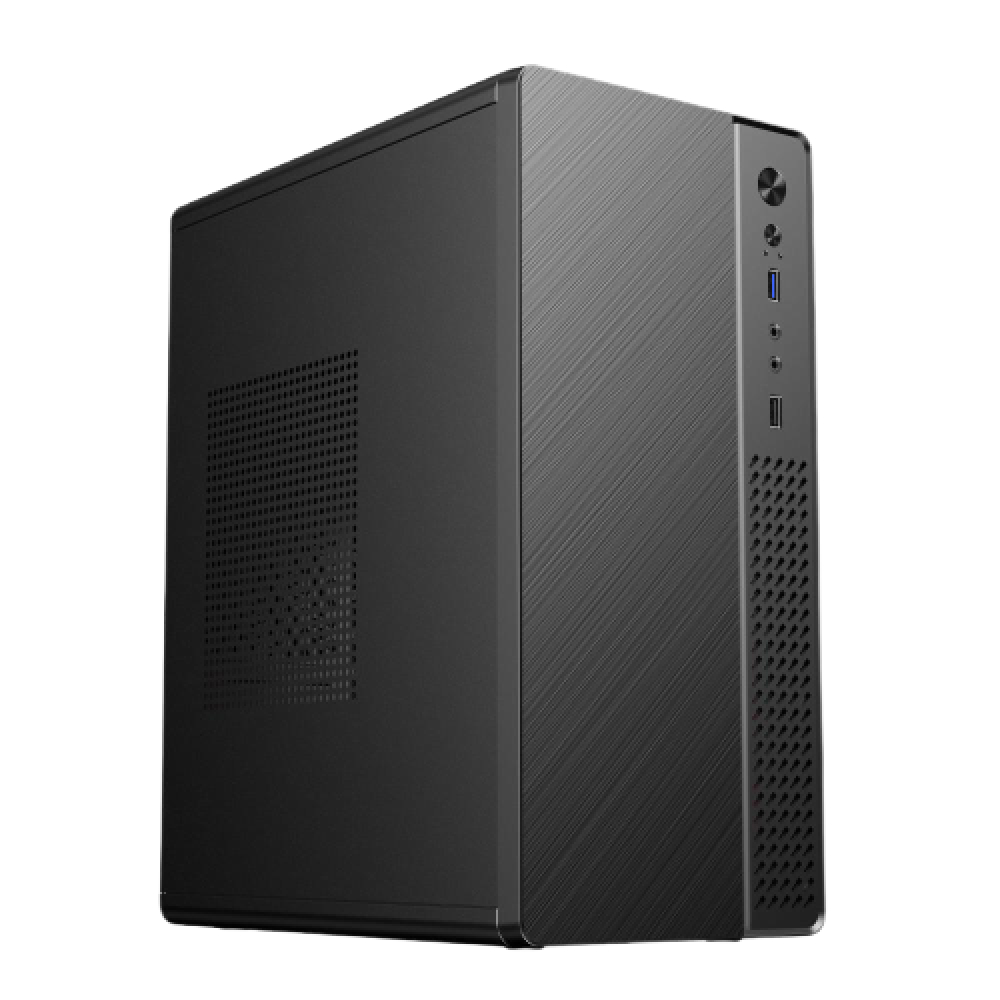
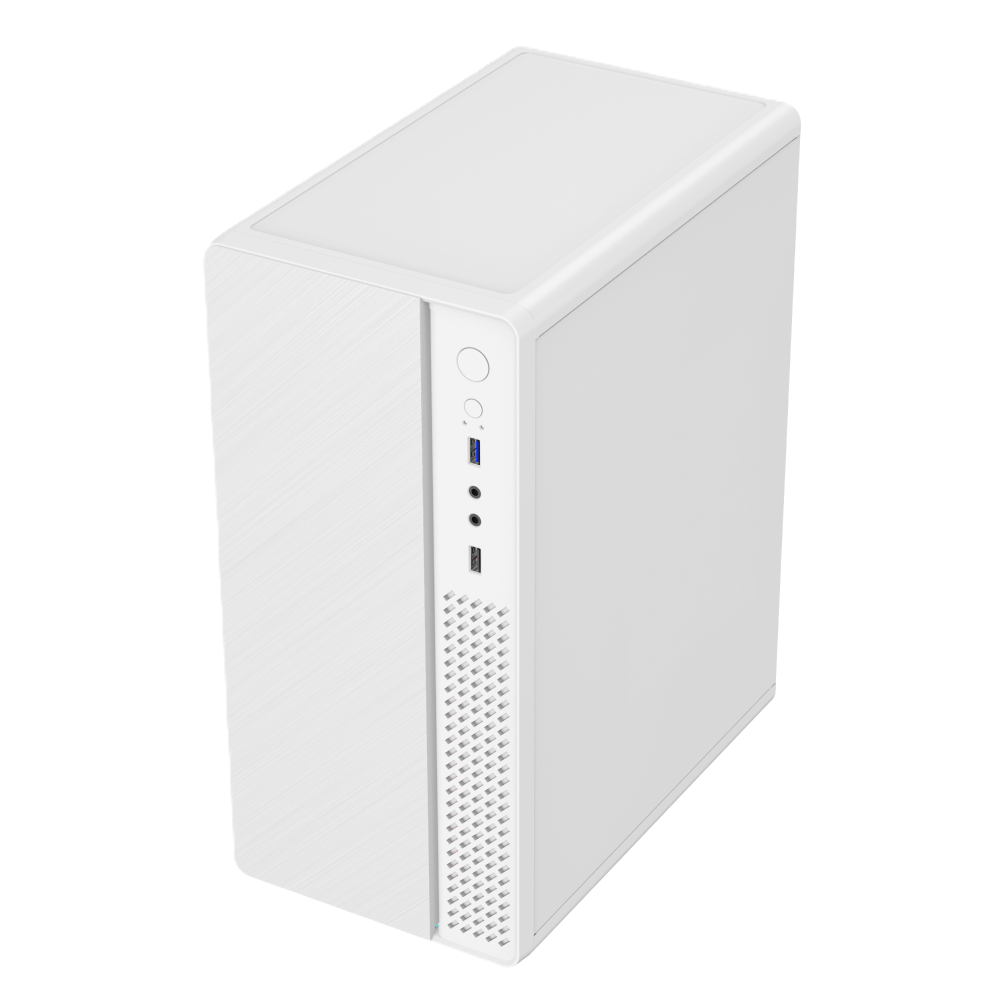
TM40 상세페이지 고해상도 상세 이미지 추가 및 TA10/TM40 Standard 단어 제거

diff --git a/index.html b/index.html
@@ -328,19 +328,19 @@
 
             <div class="hero-slide">
                 <div class="hero-badge">BEST SELLER</div>
-                <h1>공간 활용과 가성비의 정점<br>실속형 컴팩트 섀시, TM40 Standard</h1>
+                <h1>공간 활용과 가성비의 정점<br>실속형 컴팩트 섀시, TM40</h1>
                 <p>관공서 및 대량 조립 PC 최적화 설계, 슬림한 구조에 완벽한 확장성을 더하다</p>
                 <div class="hero-image-box">
-                    <img src="TM40_화이트_1000x1000.jpg" alt="TM40 Standard">
+                    <img src="TM40_화이트_1000x1000.jpg" alt="TM40">
                 </div>
             </div>
 
             <div class="hero-slide">
                 <div class="hero-badge">OFFICIAL STANDARD</div>
-                <h1>탄탄한 기본기, 오피스의 표준<br>비즈니스 최적화 라인업, TA10 Standard</h1>
+                <h1>탄탄한 기본기, 오피스의 표준<br>비즈니스 최적화 라인업, TA10</h1>
                 <p>기업 및 사무실 대량 납품 1위 신화! 가장 군더더기 없고 견고한 오피셜 케이스</p>
                 <div class="hero-image-box">
-                    <img src="TA10_1000x1000_1.jpg" alt="TA10 Standard">
+                    <img src="TA10_1000x1000_1.jpg" alt="TA10">
                 </div>
             </div>
 
@@ -399,7 +399,7 @@
             <div class="prod-img-slot">
                 <img src="TA10_1000x1000_1.jpg" alt="TA10">
             </div>
-            <h3>TA10 Standard</h3>
+            <h3>TA10</h3>
             <p>사무실·관공서 대량 납품 최적화. 노멀하면서 탄탄한 기본기에 집중한 오피셜 라인업</p>
             <button class="b2b-quote-btn" onclick="event.stopPropagation(); location.href='#b2b-form'">B2B 공급가 문의</button>
         </div>
@@ -443,7 +443,7 @@
             <div class="prod-img-slot">
                 <img src="TM40_화이트_1000x1000.jpg" alt="TM40">
             </div>
-            <h3>TM40 Standard</h3>
+            <h3>TM40</h3>
             <p>투민시스템의 실질적인 매출 견인차! 박리다매 저가형 시장 및 공공기관 조립 최적화 효자 모델</p>
             <button class="b2b-quote-btn" onclick="event.stopPropagation(); location.href='#b2b-form'">B2B 공급가 문의</button>
         </div>
@@ -519,7 +519,7 @@
                         <option value="TM300">TM300 RGB (컴팩트 게이밍)</option>
                         <option value="TM200">TM200 AIR1 (미니 풀메쉬)</option>
                         <option value="TM100">TM100 시리즈 (미니 어항형)</option>
-                        <option value="TM40">TM40 Standard (오피셜 가성비)</option>
+                        <option value="TM40">TM40 (오피셜 가성비)</option>
                         <option value="TM50">TM50 Black (가성비 메시)</option>
                         <option value="THERMANOVA">THERMANOVA CPU 쿨러 시리즈</option>
                     </select>

diff --git a/product-detail.html b/product-detail.html
@@ -691,7 +691,7 @@
                 }
             },
             'TA10': {
-                name: 'TA10 Standard',
+                name: 'TA10',
                 category: '케이스',
                 badge: 'OFFICIAL BASIC',
                 subtext: '사무실 및 공공기관 조립 최적화 탄탄한 기본형 미들타워',
@@ -826,11 +826,19 @@
                 }
             },
             'TM40': {
-                name: 'TM40 Standard',
+                name: 'TM40',
                 category: '케이스',
                 badge: 'OFFICE 가성비',
                 subtext: '회사 및 기업 대량 납품 최적화, 압도적 가성비의 미니 타워',
-                img: 'TM40_화이트_1000x1000.jpg',
+                colors: ['black', 'white'],
+                img: {
+                    'black': 'TM40_black_1000x1000.jpg',
+                    'white': 'TM40_화이트_1000x1000.jpg'
+                },
+                detailImgs: {
+                    'black': 'TM40_detail_black.jpg',
+                    'white': 'TM40_detail_white.jpg'
+                },
                 quickSpecs: [
                     { label: '규격', val: 'M-ATX 미니타워' },
                     { label: '섀시 두께', val: '강도 높인 가성비 에디션' },